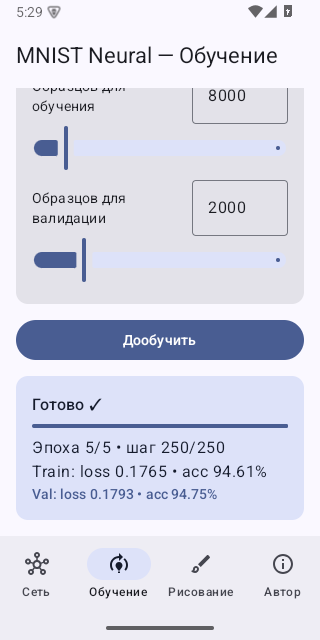
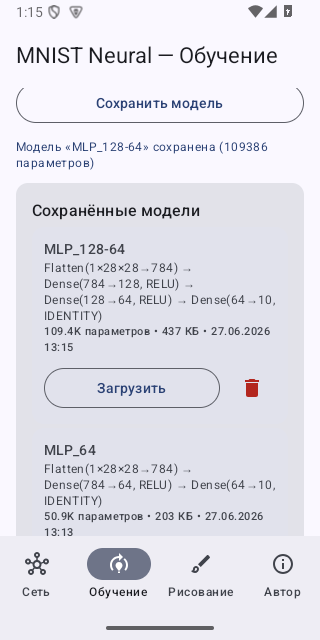
docs: refresh training + connection-editor screenshots, note multi-model storage in README

diff --git a/README.md b/README.md
@@ -27,7 +27,8 @@
 - **Настройка обучения** — эпохи, размер батча, learning rate, momentum, L2, размер выборки.
 - **Обучение на устройстве** — собственный многопоточный движок на CPU (без TFLite) ради максимальной совместимости.
 - **Рисование и распознавание** — поле 28×28, центрирование по центру масс (как в MNIST), диаграмма вероятностей по классам.
-- **Сохранение и загрузка модели**, пресеты (Перцептрон / MLP / CNN), оценка на тесте с поклассовой точностью, матрицей ошибок и экспортом отчёта.
+- **Несколько сохранённых моделей** — сохраняйте обученные сети под именами, просматривайте список с архитектурой, числом параметров, размером и датой, загружайте и удаляйте.
+- **Пресеты** (Перцептрон / MLP / CNN) и оценка на тесте с поклассовой точностью, матрицей ошибок и экспортом отчёта.
 
 ## Скриншоты
 